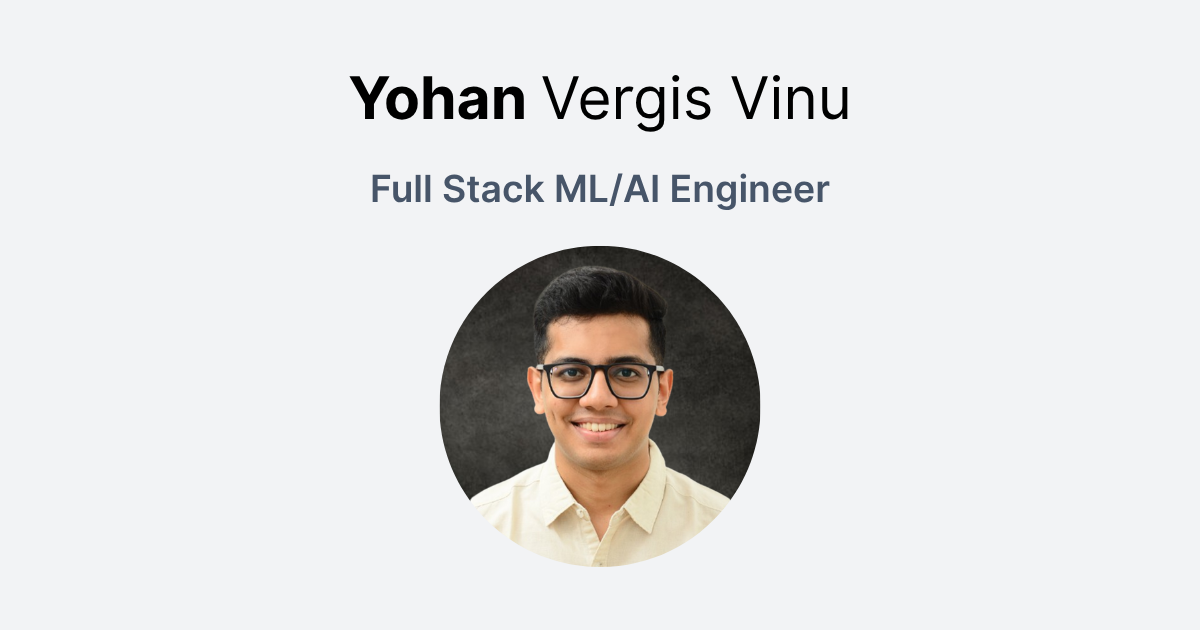
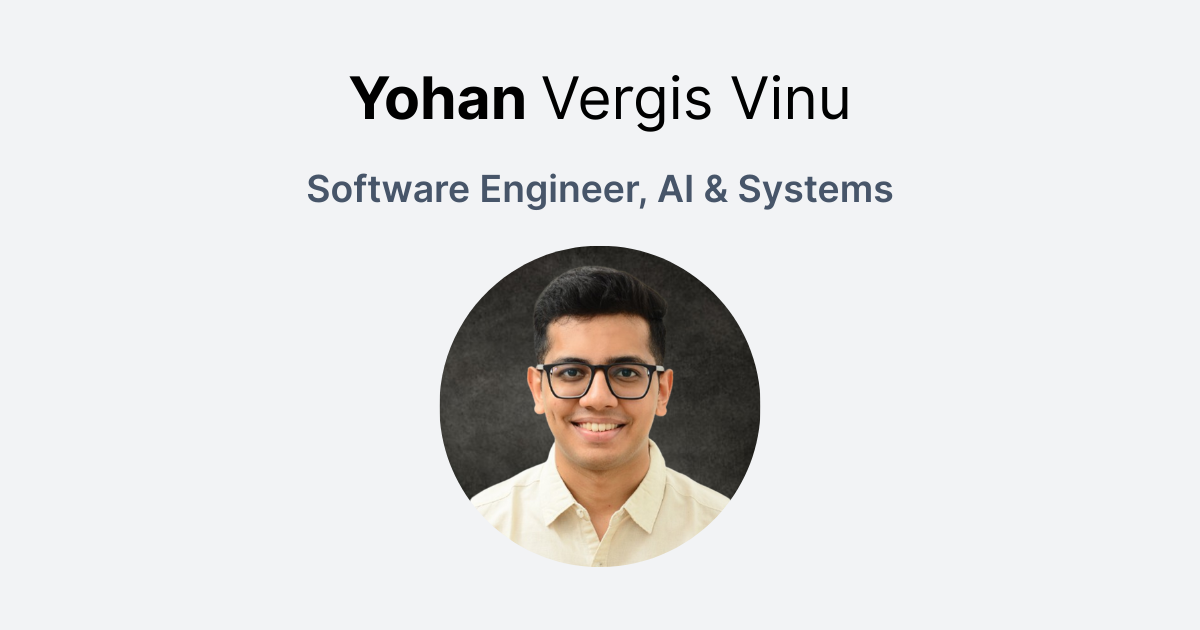
update wording

Changed region(s): [[0.2467, 0.2714, 0.74, 0.3317]]

diff --git a/src/app/layout.tsx b/src/app/layout.tsx
@@ -10,7 +10,7 @@ const inter = Inter({
 });
 
 export const metadata: Metadata = {
-  title: "Yohan Vergis Vinu | Software Engineer",
+  title: "Yohan Vergis Vinu | Software Engineer, AI & Systems",
   description: "Startup-native engineer building applied AI and full-stack products that ship fast, scale reliably, and stay obsessively user-centered. CS Master's Student at the University of Pennsylvania.",
   keywords: ["AI/ML Engineer", "Machine Learning", "Full-Stack Development", "React", "Next.js", "TypeScript", "Python", "University of Pennsylvania"],
   authors: [{ name: "Yohan Vergis Vinu" }],
@@ -26,7 +26,7 @@ export const metadata: Metadata = {
     canonical: "https://yohanvvinu.com/",
   },
   openGraph: {
-    title: "Yohan Vergis Vinu - Software Engineer",
+    title: "Yohan Vergis Vinu - Software Engineer, AI & Systems",
     description: "Startup-native engineer building applied AI and full-stack products that ship fast, scale reliably, and stay obsessively user-centered. CS Master's Student at the University of Pennsylvania.",
     url: "https://yohanvvinu.com",
     siteName: "Yohan Vergis Vinu's Website",
@@ -35,7 +35,7 @@ export const metadata: Metadata = {
         url: "/card.png",
         width: 1200,
         height: 630,
-        alt: "Yohan Vergis Vinu - Software Engineer",
+        alt: "Yohan Vergis Vinu - Software Engineer, AI & Systems",
       },
     ],
     locale: "en_US",
@@ -43,7 +43,7 @@ export const metadata: Metadata = {
   },
   twitter: {
     card: "summary_large_image",
-    title: "Yohan Vergis Vinu - Software Engineer",
+    title: "Yohan Vergis Vinu - Software Engineer, AI & Systems",
     description: "Startup-native engineer building applied AI and full-stack products that ship fast, scale reliably, and stay obsessively user-centered.",
     images: ["/card.png"],
     creator: "@yohanvinu",
@@ -69,7 +69,7 @@ export default function RootLayout({
   return (
     <html lang="en" className={inter.variable}>
       <head>
-        <title>Yohan Vergis Vinu | Software Engineer</title>
+        <title>Yohan Vergis Vinu | Software Engineer, AI & Systems</title>
         {/* Umami Analytics */}
         <script defer src="https://cloud.umami.is/script.js" data-website-id="b8960906-5cc6-4b8f-ae42-55d8438a44f2"></script>
         
@@ -82,12 +82,12 @@ export default function RootLayout({
         {/* Manual meta tags for better crawler compatibility */}
         <meta name="description" content="Startup-native engineer building applied AI and full-stack products that ship fast, scale reliably, and stay obsessively user-centered. CS Master's Student at the University of Pennsylvania." />
         <meta name="keywords" content="AI/ML Engineer, Machine Learning, Full-Stack Development, React, Next.js, TypeScript, Python, University of Pennsylvania" />
-        <meta property="og:title" content="Yohan Vergis Vinu - Software Engineer" />
+        <meta property="og:title" content="Yohan Vergis Vinu - Software Engineer, AI & Systems" />
         <meta property="og:description" content="Startup-native engineer building applied AI and full-stack products that ship fast, scale reliably, and stay obsessively user-centered. CS Master's Student at the University of Pennsylvania." />
         <meta property="og:url" content="https://yohanvvinu.com" />
         <meta property="og:image" content="https://yohanvvinu.com/card.png" />
         <meta name="twitter:card" content="summary_large_image" />
-        <meta name="twitter:title" content="Yohan Vergis Vinu - Software Engineer" />
+        <meta name="twitter:title" content="Yohan Vergis Vinu - Software Engineer, AI & Systems" />
         <meta name="twitter:description" content="Startup-native engineer building applied AI and full-stack products that ship fast, scale reliably, and stay obsessively user-centered." />
         <meta name="twitter:image" content="https://yohanvvinu.com/card.png" />
         

diff --git a/src/components/Hero.tsx b/src/components/Hero.tsx
@@ -13,7 +13,7 @@ export default function Hero() {
               </h1>
               
               <p className="text-2xl md:text-3xl text-gradient font-semibold mb-4 leading-relaxed">
-                Software Engineer
+                Software Engineer, AI & Systems
               </p>
               <p className="text-xl text-gray-500 dark:text-gray-400 mb-6">
               MSE CIS @ UPenn
